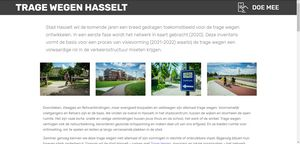
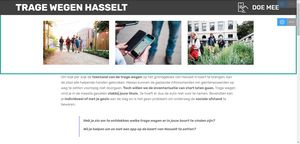
update_hokjes_4

diff --git a/index.html b/index.html
@@ -55,7 +55,7 @@
     </nav>
 </section>
 
-<section class="engine"><a href="https://mobirise.info/v">free html templates</a></section><section class="mbr-section article content3 cid-rQbUgujYzw" id="content3-n">
+<section class="engine"><a href="https://mobirise.info/f">easy web maker</a></section><section class="mbr-section article content3 cid-rQbUgujYzw" id="content3-n">
       
      
 
@@ -81,34 +81,34 @@
     <div class="container">
         
         
-        <div class="row mbr-gallery" data-toggle="modal" data-target="#rXwHpI2116">
+        <div class="row mbr-gallery" data-toggle="modal" data-target="#rXCyZjkRZI">
             <div class="col-sm-6 col-md-4 col-lg-3 item gallery-image">
                 <div class="item-wrapper">
-                    <img class="w-100" src="assets/images/tragewegen-201908-ingedelee-199.jpg" alt="" data-slide-to="0" title="" data-target="#rXwHpI2KpK">
+                    <img class="w-100" src="assets/images/tragewegen-201908-ingedelee-199.jpg" alt="" data-slide-to="0" title="" data-target="#rXCyZjk0pY">
                 </div>
             </div>
             <div class="col-sm-6 col-md-4 col-lg-3 item gallery-image">
                 <div class="item-wrapper">
-                    <img class="w-100" src="assets/images/tragewegen-201908-ingedelee-122.jpg" alt="" data-slide-to="1" title="" data-target="#rXwHpI2KpK">
+                    <img class="w-100" src="assets/images/tragewegen-201908-ingedelee-122.jpg" alt="" data-slide-to="1" title="" data-target="#rXCyZjk0pY">
                 </div>
             </div>
             <div class="col-sm-6 col-md-4 col-lg-3 item gallery-image">
                 <div class="item-wrapper">
-                    <img class="w-100" src="assets/images/tragewegen-201908-ingedelee-131.jpg" alt="" data-slide-to="2" title="" data-target="#rXwHpI2KpK">
+                    <img class="w-100" src="assets/images/tragewegen-201908-ingedelee-131.jpg" alt="" data-slide-to="2" title="" data-target="#rXCyZjk0pY">
                 </div>
             </div><div class="col-sm-6 col-md-4 col-lg-3 item gallery-image">
                 <div class="item-wrapper">
-                    <img class="w-100" src="assets/images/tragewegen-201908-ingedelee-125.jpg" alt="" data-slide-to="3" title="" data-target="#rXwHpI2KpK">
+                    <img class="w-100" src="assets/images/tragewegen-201908-ingedelee-125.jpg" alt="" data-slide-to="3" title="" data-target="#rXCyZjk0pY">
                 </div>
             </div>
             
         </div>
 
-        <div class="modal mbr-slider fade" tabindex="-1" role="dialog" aria-hidden="true" id="rXwHpI2116">
+        <div class="modal mbr-slider fade" tabindex="-1" role="dialog" aria-hidden="true" id="rXCyZjkRZI">
             <div class="modal-dialog" role="document">
                 <div class="modal-content">
                     <div class="modal-body">
-                        <div class="carousel slide" data-ride="carousel" id="rXwHpI2KpK">
+                        <div class="carousel slide" data-ride="carousel" id="rXCyZjk0pY">
                             <div class="carousel-inner">
                                 <div class="carousel-item active">
                                     <img class="d-block w-100" src="assets/images/tragewegen-201908-ingedelee-199.jpg" alt="">
@@ -124,18 +124,18 @@
                                 
                             </div>
                             <ol class="carousel-indicators">
-                                <li data-slide-to="0" class="active" data-target="#rXwHpI2KpK"></li><li data-slide-to="1" class="active" data-target="#rXwHpI2KpK"></li>
-                                <li data-slide-to="2" data-target="#rXwHpI2KpK"></li>
-                                <li data-slide-to="3" data-target="#rXwHpI2KpK"></li>
+                                <li data-slide-to="0" class="active" data-target="#rXCyZjk0pY"></li><li data-slide-to="1" class="active" data-target="#rXCyZjk0pY"></li>
+                                <li data-slide-to="2" data-target="#rXCyZjk0pY"></li>
+                                <li data-slide-to="3" data-target="#rXCyZjk0pY"></li>
                                 
                             </ol>
                             <a role="button" href="" class="close" data-dismiss="modal" aria-label="Close">
                             </a>
-                            <a class="carousel-control-prev carousel-control" role="button" data-slide="prev" href="#rXwHpI2KpK">
+                            <a class="carousel-control-prev carousel-control" role="button" data-slide="prev" href="#rXCyZjk0pY">
                                 <span class="mbri-left mbr-iconfont" aria-hidden="true"></span>
                                 <span class="sr-only">Vorige</span>
                             </a>
-                            <a class="carousel-control-next carousel-control" role="button" data-slide="next" href="#rXwHpI2KpK">
+                            <a class="carousel-control-next carousel-control" role="button" data-slide="next" href="#rXCyZjk0pY">
                                 <span class="mbri-right mbr-iconfont" aria-hidden="true"></span>
                                 <span class="sr-only">Volgende</span>
                             </a>
@@ -169,34 +169,34 @@
     <div class="container">
         
         
-        <div class="row mbr-gallery" data-toggle="modal" data-target="#rXwHpI2gFO">
+        <div class="row mbr-gallery" data-toggle="modal" data-target="#rXCyZjkb6S">
             <div class="col-sm-6 col-md-4 col-lg-3 item gallery-image">
                 <div class="item-wrapper">
-                    <img class="w-100" src="assets/images/tragewegen-201908-ingedelee-90.jpg" alt="" data-slide-to="0" title="" data-target="#rXwHpI2RKM">
+                    <img class="w-100" src="assets/images/tragewegen-201908-ingedelee-90.jpg" alt="" data-slide-to="0" title="" data-target="#rXCyZjkNS4">
                 </div>
             </div><div class="col-sm-6 col-md-4 col-lg-3 item gallery-image">
                 <div class="item-wrapper">
-                    <img class="w-100" src="assets/images/tragewegen-201908-ingedelee-77.jpg" alt="" data-slide-to="1" title="" data-target="#rXwHpI2RKM">
+                    <img class="w-100" src="assets/images/tragewegen-201908-ingedelee-77.jpg" alt="" data-slide-to="1" title="" data-target="#rXCyZjkNS4">
                 </div>
             </div><div class="col-sm-6 col-md-4 col-lg-3 item gallery-image">
                 <div class="item-wrapper">
-                    <img class="w-100" src="assets/images/tragewegen-201908-ingedelee-170.jpg" alt="" data-slide-to="2" title="" data-target="#rXwHpI2RKM">
+                    <img class="w-100" src="assets/images/tragewegen-201908-ingedelee-170.jpg" alt="" data-slide-to="2" title="" data-target="#rXCyZjkNS4">
                 </div>
             </div>
             <div class="col-sm-6 col-md-4 col-lg-3 item gallery-image">
                 <div class="item-wrapper">
-                    <img class="w-100" src="assets/images/tragewegen-201908-ingedelee-163.jpg" alt="" data-slide-to="3" title="" data-target="#rXwHpI2RKM">
+                    <img class="w-100" src="assets/images/tragewegen-201908-ingedelee-163.jpg" alt="" data-slide-to="3" title="" data-target="#rXCyZjkNS4">
                 </div>
             </div>
             
             
         </div>
 
-        <div class="modal mbr-slider fade" tabindex="-1" role="dialog" aria-hidden="true" id="rXwHpI2gFO">
+        <div class="modal mbr-slider fade" tabindex="-1" role="dialog" aria-hidden="true" id="rXCyZjkb6S">
             <div class="modal-dialog" role="document">
                 <div class="modal-content">
                     <div class="modal-body">
-                        <div class="carousel slide" data-ride="carousel" id="rXwHpI2RKM">
+                        <div class="carousel slide" data-ride="carousel" id="rXCyZjkNS4">
                             <div class="carousel-inner">
                                 <div class="carousel-item active">
                                     <img class="d-block w-100" src="assets/images/tragewegen-201908-ingedelee-90.jpg" alt="">
@@ -212,18 +212,18 @@
                                 
                             </div>
                             <ol class="carousel-indicators">
-                                <li data-slide-to="0" class="active" data-target="#rXwHpI2RKM"></li>
-                                <li data-slide-to="1" data-target="#rXwHpI2RKM"></li>
-                                <li data-slide-to="2" data-target="#rXwHpI2RKM"></li>
-                                <li data-slide-to="3" data-target="#rXwHpI2RKM"></li>
+                                <li data-slide-to="0" class="active" data-target="#rXCyZjkNS4"></li>
+                                <li data-slide-to="1" data-target="#rXCyZjkNS4"></li>
+                                <li data-slide-to="2" data-target="#rXCyZjkNS4"></li>
+                                <li data-slide-to="3" data-target="#rXCyZjkNS4"></li>
                             </ol>
                             <a role="button" href="" class="close" data-dismiss="modal" aria-label="Close">
                             </a>
-                            <a class="carousel-control-prev carousel-control" role="button" data-slide="prev" href="#rXwHpI2RKM">
+                            <a class="carousel-control-prev carousel-control" role="button" data-slide="prev" href="#rXCyZjkNS4">
                                 <span class="mbri-left mbr-iconfont" aria-hidden="true"></span>
                                 <span class="sr-only">Vorige</span>
                             </a>
-                            <a class="carousel-control-next carousel-control" role="button" data-slide="next" href="#rXwHpI2RKM">
+                            <a class="carousel-control-next carousel-control" role="button" data-slide="next" href="#rXCyZjkNS4">
                                 <span class="mbri-right mbr-iconfont" aria-hidden="true"></span>
                                 <span class="sr-only">Volgende</span>
                             </a>

diff --git a/page1.html b/page1.html
@@ -55,7 +55,7 @@
     </nav>
 </section>
 
-<section class="engine"><a href="https://mobirise.info/q">free responsive website templates</a></section><section class="features2 cid-rQmQMGRh2Z" id="features2-2z">
+<section class="engine"><a href="https://mobirise.info/h">how to create a web page</a></section><section class="features2 cid-rQmQMGRh2Z" id="features2-2z">
 
     
 
@@ -160,7 +160,7 @@
         <div class="row justify-content-center">
             <div class="media-container-column col-lg-8" data-form-type="formoid">
                 <!---Formbuilder Form--->
[2 lines of base64/hex data omitted]
                     <div class="row">
                         <div hidden="hidden" data-form-alert="" class="alert alert-success col-12">Bedankt voor jouw enthousiasme en medewerking!</div>
                         <div hidden="hidden" data-form-alert-danger="" class="alert alert-danger col-12">
@@ -209,7 +209,7 @@
 
     <figure class="mbr-figure container">
         <div class="image-block" style="width: 100%;">
-            <img src="assets/images/deelgemeenten-hokjes-nr-update-3.png" width="1400" alt="Mobirise" title="">
+            <img src="assets/images/deelgemeenten-hokjes-nr-update-4.png" width="1400" alt="Mobirise" title="">
             
         </div>
     </figure>
